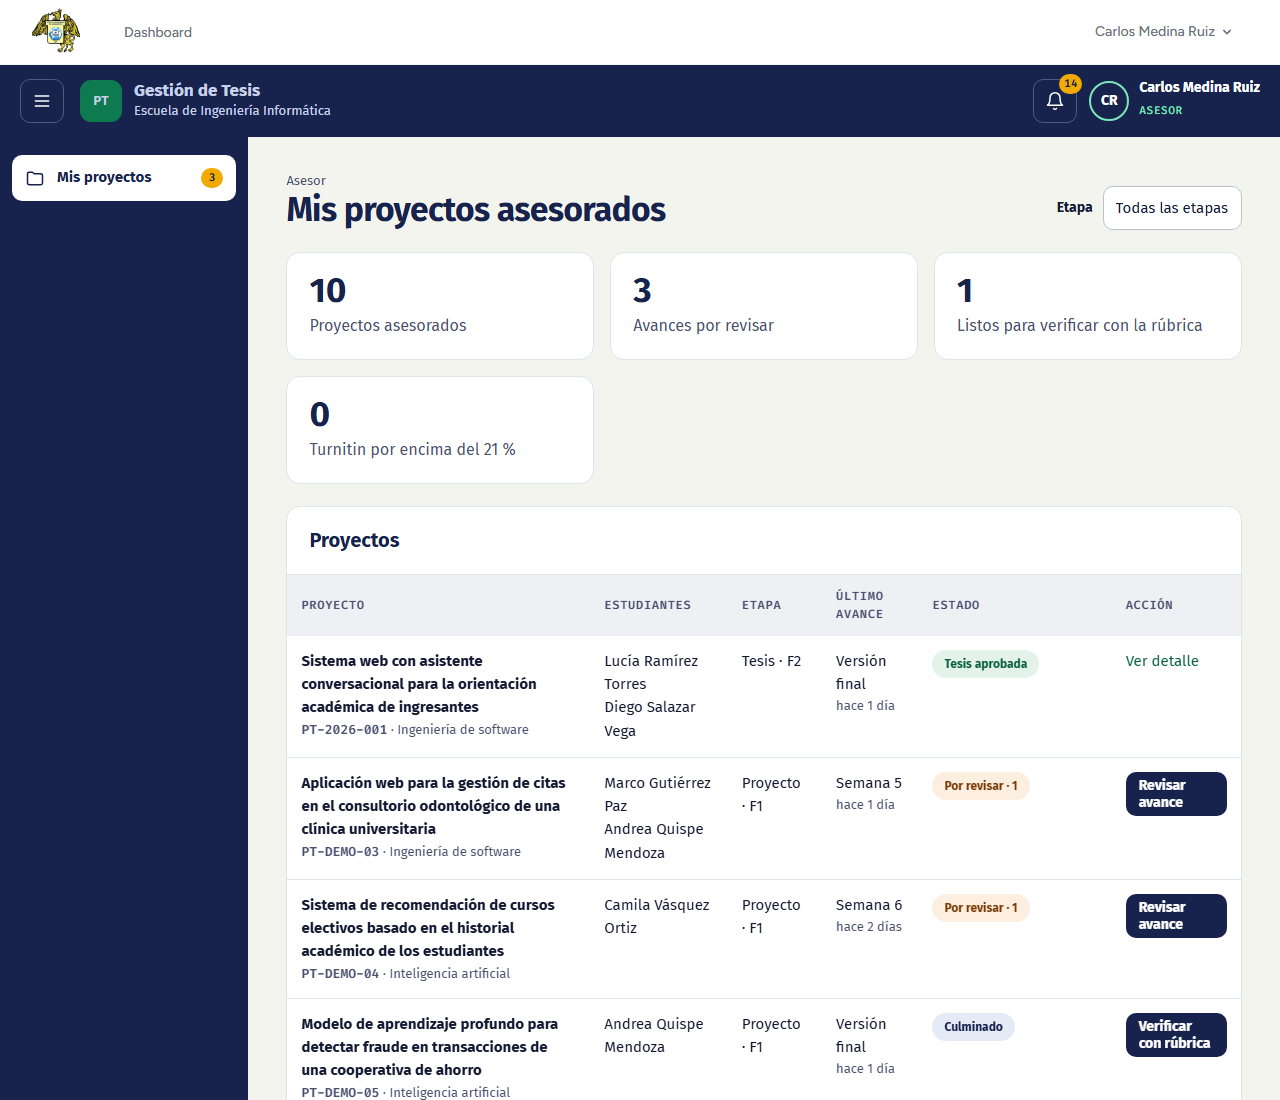
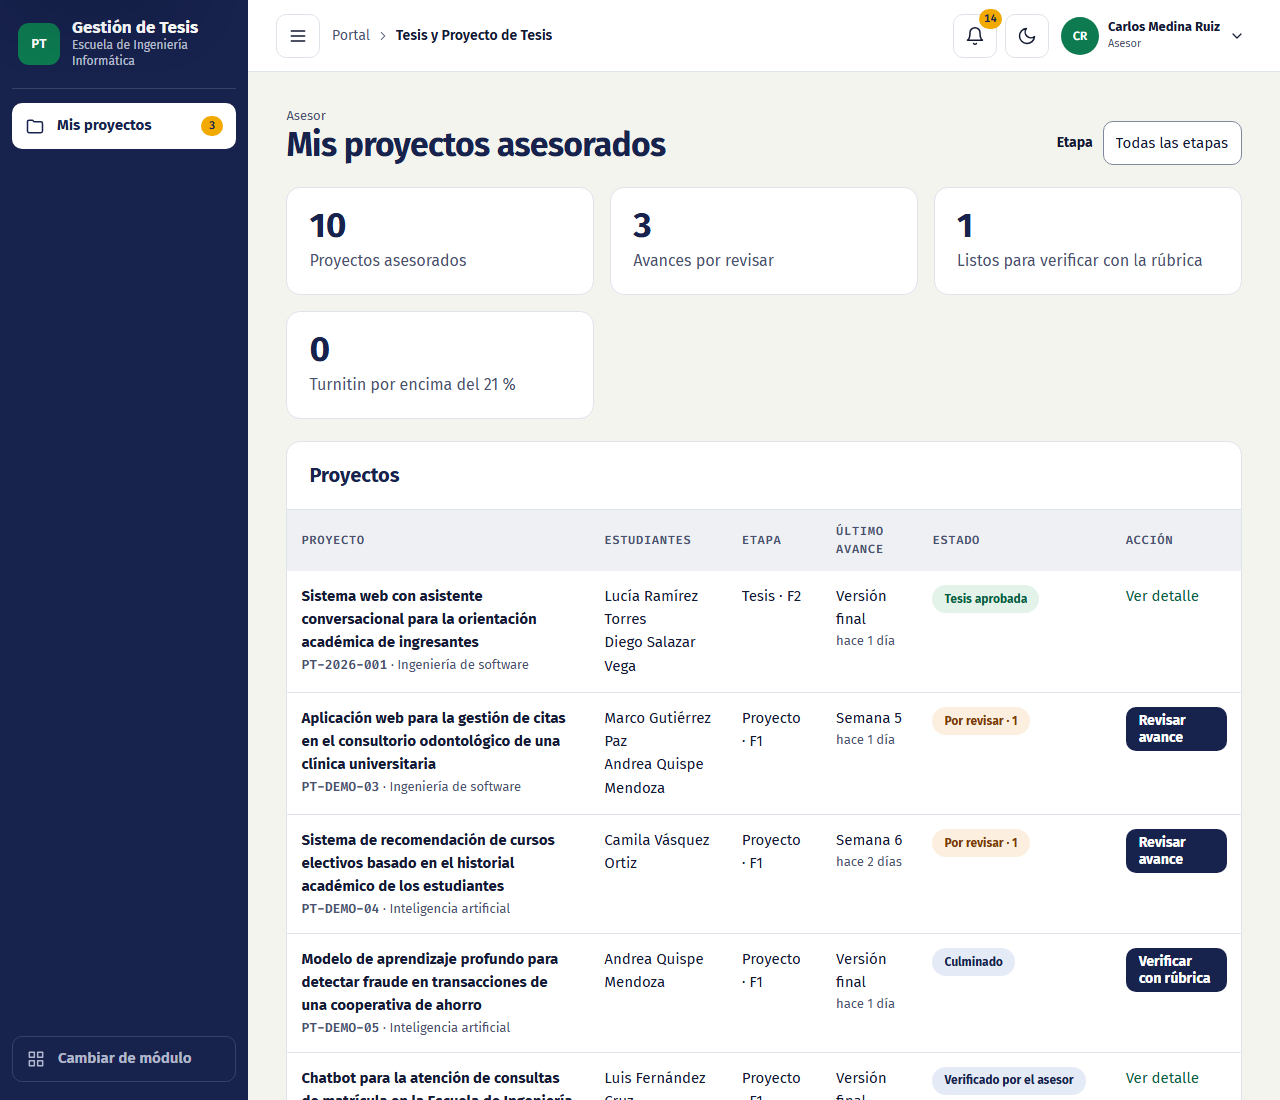
docs(tesis-proyecto-de-tesis): actualiza manuales con el nuevo contenedor y el tema oscuro

diff --git a/app/Modules/TesisProyectoTesis/Docs/MANUAL_USUARIO.md b/app/Modules/TesisProyectoTesis/Docs/MANUAL_USUARIO.md
@@ -22,13 +22,17 @@ Esta guía explica cómo usar la sección **Gestión de Tesis** del portal de la
 1. Entra al portal con tu correo institucional y tu contraseña.
 2. Abre **Gestión de Tesis**. El sistema te lleva directamente a tu página de inicio según tu función.
    - Si eres docente y a la vez asesor y jurado, primero eliges con qué papel entrar: **Entrar como asesor** o **Entrar como jurado**.
-3. A la izquierda está el **menú** con tus opciones. Cada opción tiene un ícono, y la de la página en la que estás aparece resaltada. Un número amarillo junto a una opción indica cuántas cosas esperan tu atención.
+3. El módulo ocupa toda la pantalla. A la izquierda está el **menú**, con la marca **Gestión de Tesis** arriba y tus opciones debajo. Cada opción tiene un ícono, y la de la página en la que estás aparece resaltada. Un número amarillo junto a una opción indica cuántas cosas esperan tu atención.
    - El botón de tres rayas, arriba a la izquierda, **contrae el menú** para dejar solo los íconos y ganar espacio. Al pasar el mouse por un ícono, o al llegar a él con la tecla Tab, aparece su nombre. Pulsa el botón otra vez para **expandir el menú**. El portal recuerda tu elección en ese navegador.
+   - Al pie del menú, **Cambiar de módulo** te lleva a la lista de módulos del portal.
    - En el celular el menú está oculto: ábrelo con el mismo botón. Se cierra al elegir una opción, al tocar fuera de él o con la tecla Esc.
-4. Arriba a la derecha está la **campana** de avisos:
-   - el número indica los avisos sin leer;
-   - al pulsar un aviso («Ir a la acción →») llegas directamente a la pantalla donde debes actuar, y el aviso queda leído;
-   - **Marcar todas como leídas** limpia el contador.
+4. En la barra superior están, de izquierda a derecha:
+   - la ruta **Portal › Tesis y Proyecto de Tesis** (pulsa **Portal** para volver al inicio del portal);
+   - la **campana** de avisos: el número indica los avisos sin leer; al pulsar un aviso («Ir a la acción →») llegas directamente a la pantalla donde debes actuar, y el aviso queda leído; **Marcar todas como leídas** limpia el contador;
+   - el botón de **tema** (luna o sol), que cambia entre tema claro y oscuro. La elección se guarda en tu navegador y vale para todos los módulos del portal;
+   - tu **menú de usuario** (nombre y rol): **Mi perfil**, **Cambiar rol** (solo si tienes más de un rol en el módulo) y **Cerrar sesión**.
+
+![Barra superior con el menú de usuario abierto](img/barra-superior.png)
 
 > Los documentos se suben siempre en **PDF de hasta 10 MB**. Solo pueden abrirlos las personas que participan en ese proyecto.
 

diff --git a/app/Modules/TesisProyectoTesis/Docs/MANUAL_ARQUITECTURA.md b/app/Modules/TesisProyectoTesis/Docs/MANUAL_ARQUITECTURA.md
@@ -69,7 +69,7 @@ app/Modules/TesisProyectoTesis/
 └── Support/            Estados, Parametros, Identidad (DTO), PdfSimple
 
 resources/views/modules/tesis-proyecto-tesis/
-├── layout.blade.php    marco del módulo dentro de <x-app-layout>: menú por rol y campana
+├── layout.blade.php    documento propio del módulo (como layouts.calidad): menú lateral por rol, barra superior con campana, tema y menú de usuario
 ├── inicio, portada     selección de rol / portada pública sin datos
 ├── alumno/  asesor/  director/  jurado/  secretaria/      una carpeta por carril
 └── partials/           estado, ficha, línea de tiempo, rúbrica, observación, estilos…
@@ -497,6 +497,12 @@ Resumen de las decisiones tomadas durante la implementación. Ante una duda se e
 - Controles de al menos 44 px y foco visible.
 - Los estados llevan siempre texto además del color.
 - Enlace «Saltar al contenido», etiquetas `label`/`legend` y roles ARIA en pestañas, barras de progreso y búsqueda.
+
+**Contenedor y tema**
+
+- `layout.blade.php` es un documento HTML propio, como `layouts.calidad`: `@vite`, `@livewireStyles` y `@livewireScriptConfig` según `docs/DESIGN.md`, sin cargar Alpine aparte y sin la barra del portal. Menú lateral fijo de 248 px (72 px plegado) y contenido a todo el ancho; solo los párrafos largos tienen ancho máximo.
+- El tema usa el mecanismo del portal: `data-theme` en `<html>` y la clave `portal-theme` de `localStorage`, leída en el `<head>` antes de pintar (con try/catch). Así la elección vale en todos los módulos.
+- Los colores son variables `--tz-*` con valor claro y oscuro (paleta oscura de `docs/DESIGN.md`). Los pares texto/fondo cumplen WCAG AA (4,5:1 en texto y 3:1 en bordes y foco) en ambos temas. Para lograrlo, en tema claro el foco usa `#b45f00` y el borde de campo `#7f889c`, en lugar de `#f2a900` y `#bbc2ce` (1,8–2:1). El menú lateral queda navy en los dos temas, como en Calidad, y el acta imprimible se ve siempre en papel blanco.
 
 ## Limitaciones conocidas
 
